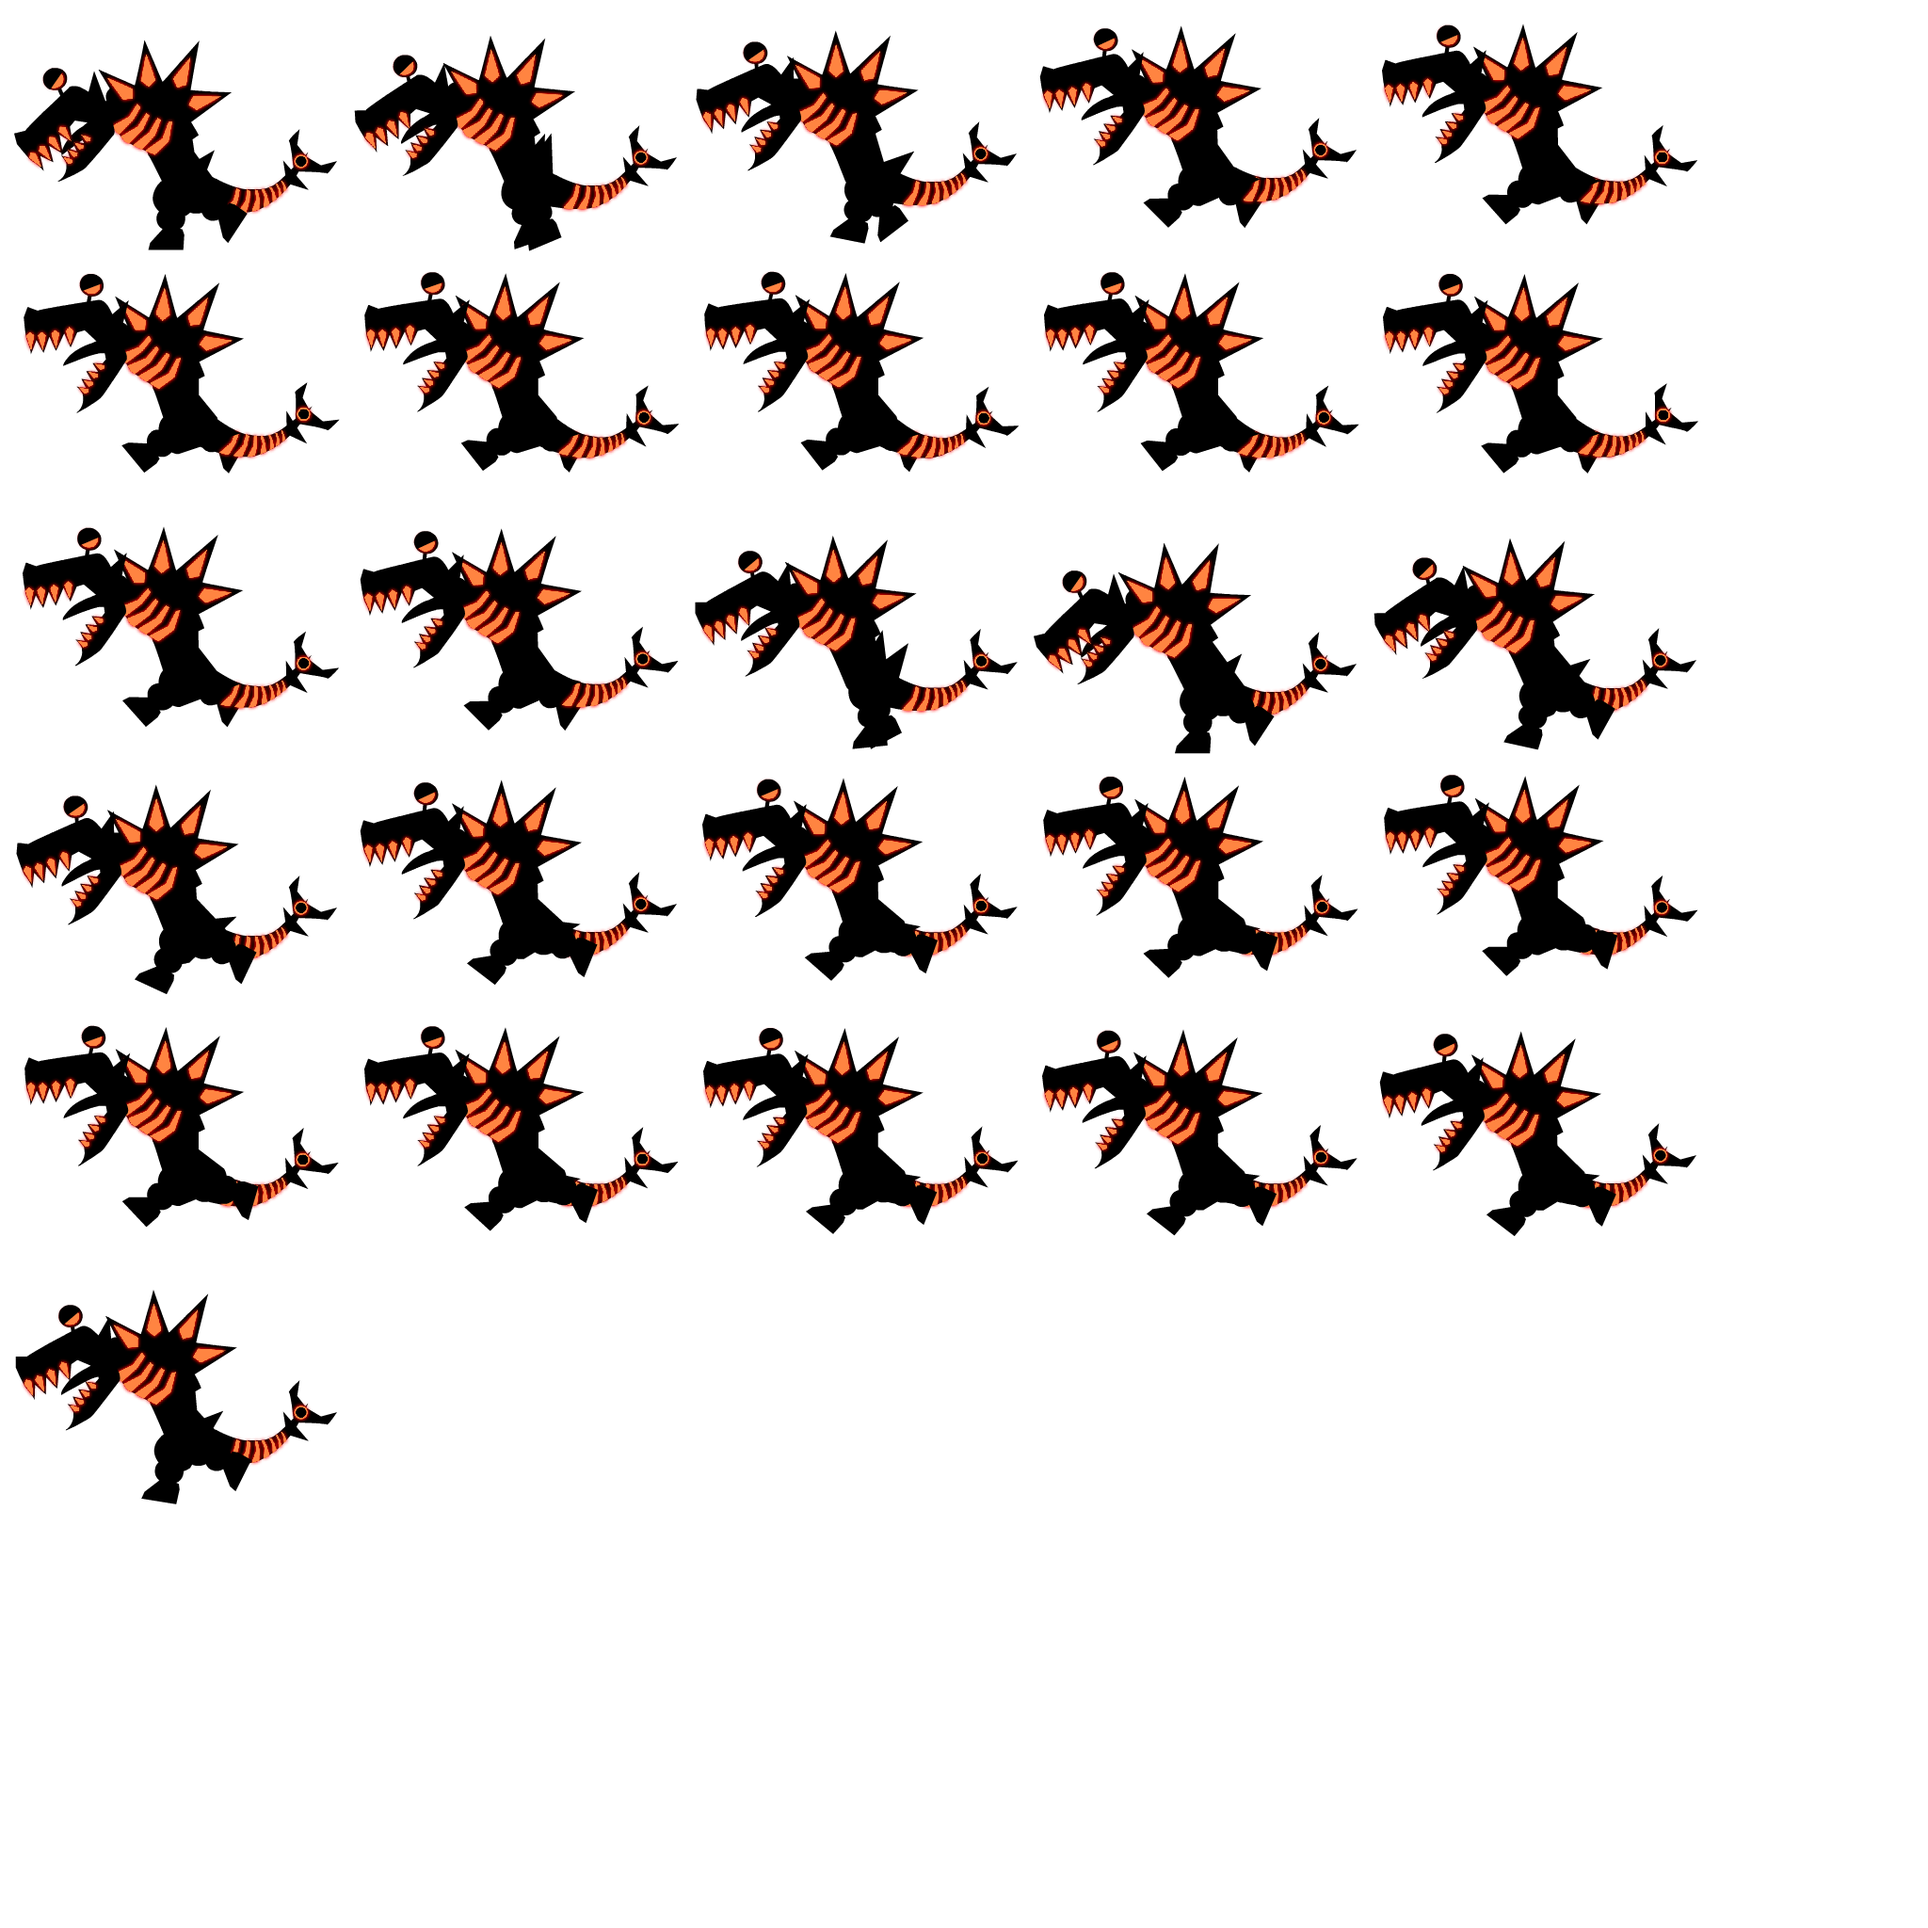
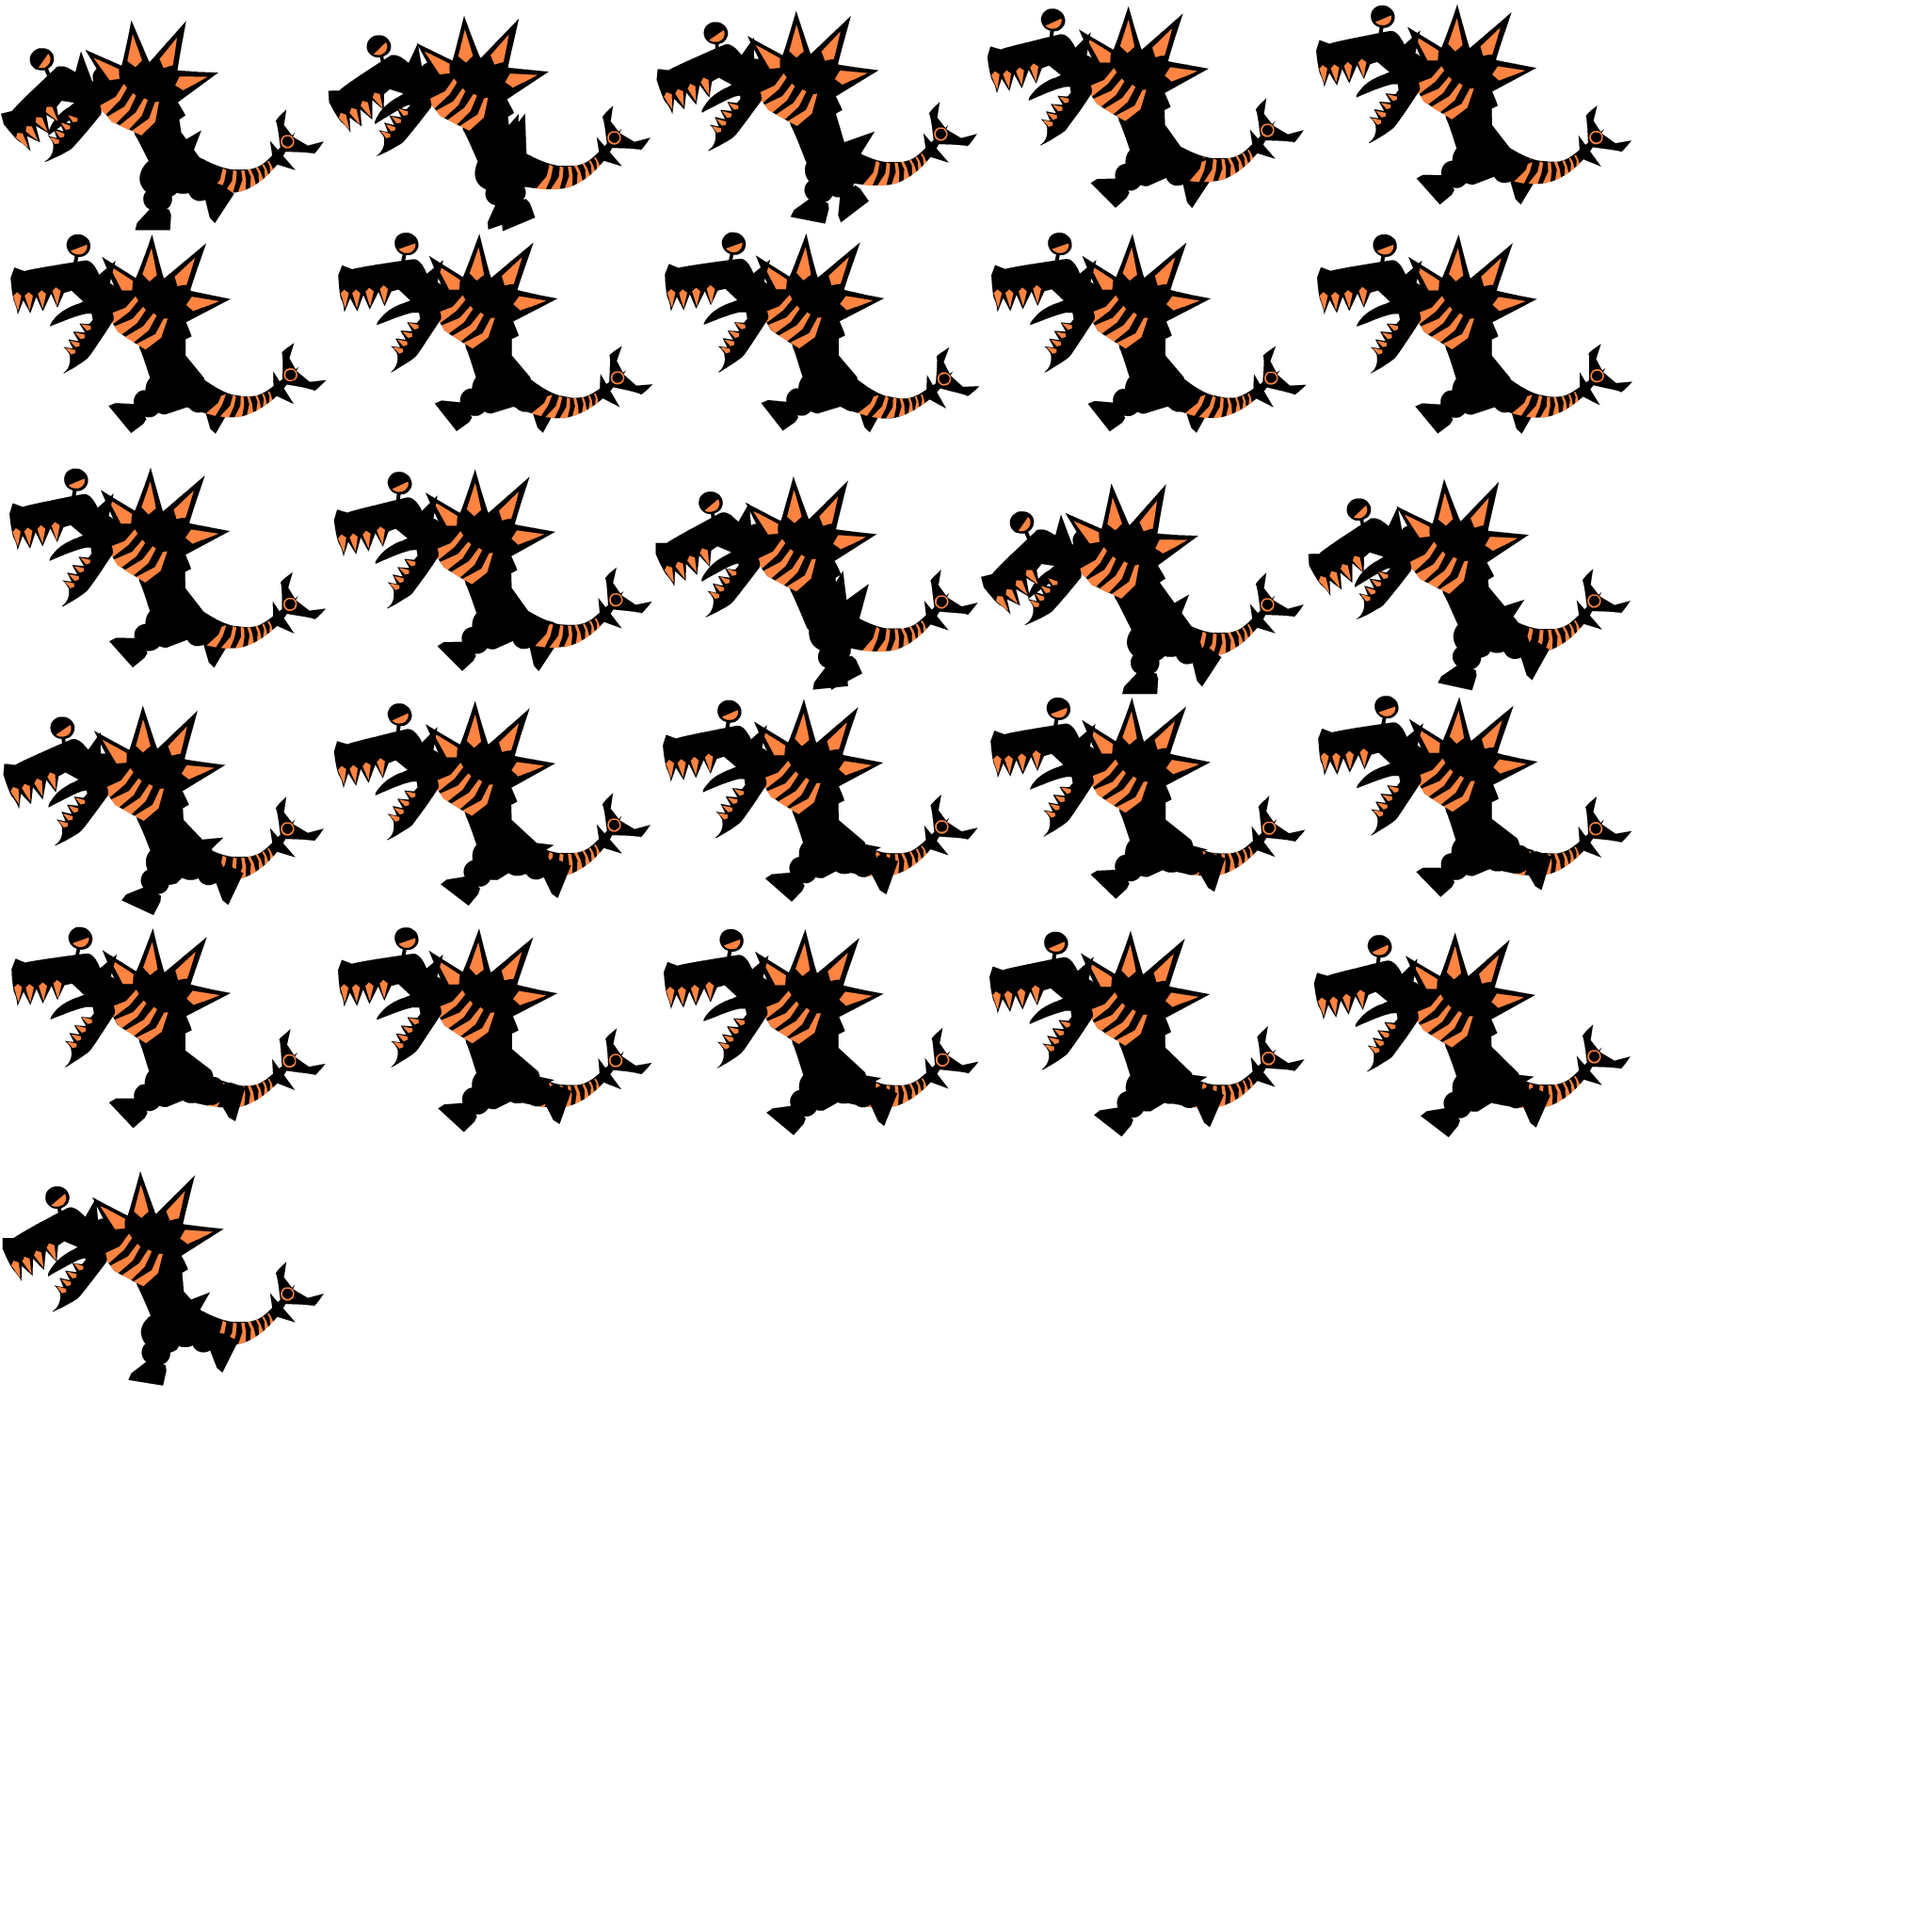
added new (better) art for enemy2 version 3 and made spawnsystem better

Changed region(s): [[0.0, 0.0, 0.875, 0.7812]]

diff --git a/Assets/Scripts/Enemies/EnemySpawner.cs b/Assets/Scripts/Enemies/EnemySpawner.cs
@@ -27,8 +27,8 @@ public class EnemySpawner : MonoBehaviour {
 
 	void Spawn2Enemies(GameObject EnemyType1,GameObject EnemyType2){
 
-		Instantiate(EnemyType1, new Vector2 (7, 0), this.transform.rotation);
-		Instantiate(EnemyType2, new Vector2 (10, 0), this.transform.rotation);
+			Instantiate(EnemyType1, new Vector2 (7, 0), this.transform.rotation);
+			Instantiate(EnemyType2, new Vector2 (10, 0), this.transform.rotation);
 	}
 
 	void EnemySpawn() {
@@ -57,12 +57,18 @@ public class EnemySpawner : MonoBehaviour {
 			}
 		}else{
 			portalCounter ++;
+
 			if(portalCounter == 5){
 				portalCounter = 0;
 				Instantiate(portal, new Vector2 (4, 0.48f), this.transform.rotation);
+			}else{
+				if(chooseEnemyToSpawn == 1){
+					Spawn2Enemies(enemy1,enemy1);
+				}else{
+					Spawn2Enemies(enemy2,enemy2);
+				}
 			}
 		}
-
 		Invoke("EnemySpawn",Random.Range(5f - (portalCounter/2),7f - (portalCounter/2)));
 	}
 }
